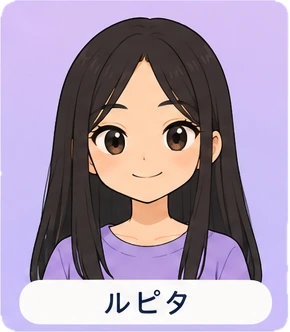
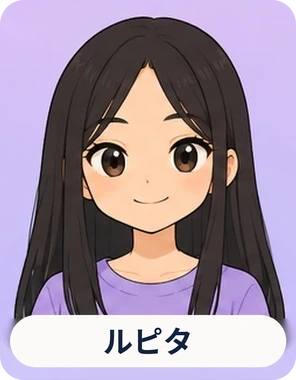
Uniform portrait cards: same size, shape and label for all 17
Claude-Session: https://claude.ai/code/session_01FWVq3SkoQeko6se8abnDDY

diff --git a/historias.html b/historias.html
@@ -130,7 +130,7 @@ footer{text-align:center;font-size:.75rem;color:var(--muted);font-style:italic;l
 /* Compu / tableta: 5 por fila (15 alumnos en 3 filas) y los dos profesores juntos al final */
 @media (min-width:760px) and (min-height:501px){
   .cast{display:grid;grid-template-columns:repeat(10,minmax(0,1fr));gap:1rem;justify-items:center;align-items:center}
-  .person{--h:min(15rem,calc((100cqw - 4rem) / 5 * 1.1));grid-column:span 2}
+  .person{--h:min(15rem,calc((100cqw - 4rem) / 5 * 1.2));grid-column:span 2}
   .person:nth-child(16){grid-column:4 / span 2}
   .person:nth-child(17){grid-column:6 / span 2}
 }
@@ -673,7 +673,7 @@ const PEOPLE = [
   {id:"naomi", name:"Naomi"}, {id:"santiago", name:"Santiago"}, {id:"yuri", name:"Yuri"},
   {id:"andres", name:"Andrés (profesor)"}, {id:"paty", name:"Paty (profesora)"}
 ];
-const IMG_SIZE = {luis:[289,333],itzel:[289,331],lupita:[290,332],gris:[290,332],claudia:[288,332],santiago:[289,321],ireri:[288,321],jairo:[289,322],naomi:[290,321],david:[288,321],jesus:[223,299],joab:[210,299],yuri:[209,299],homero:[205,298],fernando:[202,298],paty:[196,298],andres:[184,298]};
+const IMG_SIZE = {luis:[296,380],itzel:[296,380],lupita:[296,380],gris:[296,380],claudia:[296,380],santiago:[296,380],ireri:[296,380],jairo:[296,380],naomi:[296,380],david:[296,380],jesus:[296,380],joab:[296,380],yuri:[296,380],homero:[296,380],fernando:[296,380],paty:[296,380],andres:[296,380]};
 
 /* ---------- Dibujo ---------- */
 function esc(s){ return s.replace(/&/g,"&amp;").replace(/</g,"&lt;").replace(/>/g,"&gt;"); }
